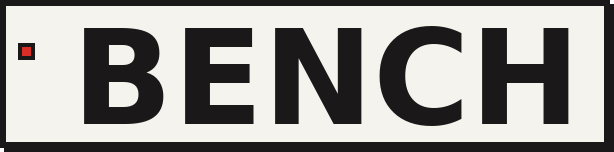
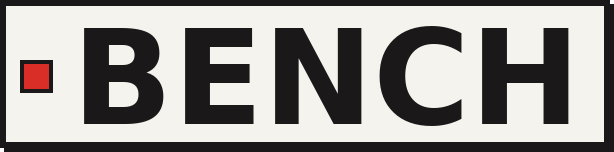
CI: install SDL2 (fxSDK requires it) and widen the install error report
The annotation from the last run named it: fxsdk's CMakeLists failed in
pkg_check_modules. It asks pkg-config for libpng16, libusb-1.0,
ncurses and sdl2 - we installed three of the four, and only udisks2 is
switched off by :noudisks2. SDL2, zlib, flex/bison/texinfo/gperf/isl and
friends come in too, so the binutils and GCC builds have what they ask
for. The annotation now greps the error lines instead of only the tail.

Changed region(s): [[0.0309, 0.2632, 0.0928, 0.6316]]

diff --git a/site/src/components/Hero.jsx b/site/src/components/Hero.jsx
@@ -1,64 +1,78 @@
 import { BruteButton, Chip, Screen } from "../ui.jsx";
 
 const stats = [
-  ["5", "tools, one menu"],
-  ["384\u00d7216", "pixels, no scrolling chrome"],
-  ["0", "dependencies beyond gint"],
+  ["5", "tools in one menu"],
+  ["384\u00d7216", "pixels of screen"],
+  ["0", "extra dependencies"],
 ];
 
 export default function Hero({ version }) {
   return (
     <div id="top" className="relative overflow-hidden border-b-3 border-ink bg-paper">
-      {/* Flat blocks, no gradients: the house style. */}
-      <div aria-hidden="true" className="pointer-events-none absolute inset-0">
-        <div className="absolute -right-16 -top-20 h-56 w-56 rotate-12 border-3 border-ink bg-yellow/70 sm:h-72 sm:w-72" />
-        <div className="absolute bottom-10 left-1/2 hidden h-24 w-24 rotate-45 border-3 border-ink bg-teal/50 lg:block" />
+      {/* Flat blocks, no gradients: the house style. They sit behind everything
+          and only appear once there is room for them, so they never cross the
+          text on a phone. */}
+      <div aria-hidden="true" className="pointer-events-none absolute inset-0 hidden lg:block">
+        <div className="absolute -right-24 -top-28 h-72 w-72 rotate-12 border-3 border-ink bg-yellow/60" />
       </div>
 
-      <div className="relative mx-auto grid w-full max-w-6xl gap-10 px-5 py-12 sm:px-8 sm:py-16 lg:grid-cols-[1.05fr_1fr] lg:items-center lg:gap-14 lg:px-12 lg:py-20">
+      <div className="relative mx-auto grid w-full max-w-6xl gap-10 px-5 py-10 sm:px-8 sm:py-14 lg:grid-cols-[1.05fr_1fr] lg:items-center lg:gap-14 lg:px-12 lg:py-16">
         <div>
           <div className="mb-5 flex flex-wrap items-center gap-2">
-            <Chip className="bg-ink text-paper">Casio fx-CG 50</Chip>
+            <Chip tone="ink">Casio fx-CG 50</Chip>
             <Chip>OS 3.81</Chip>
             <Chip>MIT</Chip>
           </div>
 
-          <h1 className="text-[2rem] font-black leading-[0.95] tracking-tighter sm:text-5xl lg:text-7xl">
-            Five study tools
-            <br />
-            <span className="bg-yellow px-1 [box-decoration-break:clone]">in one</span> add-in.
+          <h1 className="text-balance text-[2rem] font-black leading-[0.95] tracking-tighter sm:text-5xl lg:text-[3.25rem] xl:text-6xl">
+            Five study tools{" "}
+            <span className="whitespace-nowrap bg-yellow px-1 [box-decoration-break:clone]">
+              in one
+            </span>{" "}
+            add-in.
           </h1>
 
-          <p className="mt-6 max-w-xl text-lg leading-relaxed text-ink/80">
+          <p className="mt-5 max-w-xl text-base leading-relaxed text-ink/80 sm:mt-6 sm:text-lg">
             Pacer times a practice paper. Uncertainty does the error arithmetic.
             Cards drills flashcards on a Leitner schedule. Notes reads Markdown.
-            Number theory goes from gcd to CRT. One <code className="font-mono text-base">.g3a</code>,
-            one menu, nothing else to install.
+            Number theory goes from gcd to CRT. One{" "}
+            <code className="font-mono text-[0.9em]">.g3a</code>, one menu,
+            nothing else to install.
           </p>
 
-          <div className="mt-8 flex flex-wrap items-center gap-3">
-            <BruteButton href="#install">
+          <div className="mt-7 flex flex-col gap-3 sm:flex-row sm:items-center">
+            <BruteButton href="#install" extra="w-full sm:w-auto">
               Get Bench {version}
             </BruteButton>
-            <BruteButton href="#tour" tone="paper">
+            <BruteButton href="#tour" tone="paper" extra="w-full sm:w-auto">
               See every screen &rarr;
             </BruteButton>
           </div>
 
-          <dl className="mt-10 grid max-w-lg grid-cols-3 gap-3 border-t-3 border-ink pt-5">
+          <dl className="mt-8 grid max-w-lg gap-x-6 gap-y-3 border-t-3 border-ink pt-5 sm:grid-cols-3">
             {stats.map(([value, label]) => (
-              <div key={label}>
-                <dt className="font-mono text-xs uppercase tracking-widest text-ink/60">{label}</dt>
-                <dd className="mt-1 text-lg font-black sm:text-2xl lg:text-3xl">{value}</dd>
+              <div key={label} className="flex items-baseline gap-3 sm:block">
+                <dt className="order-2 font-mono text-[11px] uppercase tracking-widest text-ink/60 sm:order-none sm:mt-1 sm:text-xs">
+                  {label}
+                </dt>
+                <dd className="order-1 text-xl font-black sm:text-2xl lg:text-3xl">
+                  {value}
+                </dd>
               </div>
             ))}
           </dl>
         </div>
 
         <div className="relative">
-          <div className="absolute -inset-2 -z-10 translate-x-2 translate-y-2 border-3 border-ink bg-red" aria-hidden="true" />
-          <Screen file="01_menu.png" alt="The Bench home screen: six tiles for Pacer, Uncertainty, Cards, Notes, Number theory and Settings." />
-          <p className="mt-3 font-mono text-xs uppercase tracking-widest text-ink/60">
+          <div
+            className="absolute -inset-2 -z-10 translate-x-2 translate-y-2 border-3 border-ink bg-red"
+            aria-hidden="true"
+          />
+          <Screen
+            file="01_menu.png"
+            alt="The Bench home screen: six tiles for Pacer, Uncertainty, Cards, Notes, Number theory and Settings."
+          />
+          <p className="mt-3 font-mono text-[11px] uppercase tracking-widest text-ink/60">
             The home screen &mdash; a real frame, drawn by the add-in
           </p>
         </div>

diff --git a/site/src/ui.jsx b/site/src/ui.jsx
@@ -19,10 +19,15 @@ export function Section({ id, children, className = "" }) {
   );
 }
 
-export function Eyebrow({ children, accent = "red" }) {
+export function Eyebrow({ children, accent = "red", tone = "dark" }) {
   return (
-    <p className="mb-3 flex items-center gap-2 font-mono text-xs uppercase tracking-[0.18em]">
-      <span className={`inline-block h-3 w-3 border border-ink ${accents[accent].dot}`} />
+    <p
+      className={
+        "mb-3 flex items-center gap-2 font-mono text-xs uppercase tracking-[0.18em] " +
+        (tone === "light" ? "text-paper/70" : "text-ink/70")
+      }
+    >
+      <span className={`inline-block h-3 w-3 border border-current ${accents[accent].dot}`} />
       {children}
     </p>
   );
@@ -66,10 +71,24 @@ export function Screen({ file, alt, className = "" }) {
   );
 }
 
-export function Chip({ children, className = "" }) {
+// tone instead of a className merge: Tailwind cannot resolve two competing
+// background utilities on one element, and the first chip came out invisible
+// (dark text on a paper background that won the cascade).
+const chipTones = {
+  paper: "bg-paper text-ink",
+  ink: "bg-ink text-paper",
+  yellow: "bg-yellow text-ink",
+};
+
+export function Chip({ children, tone = "paper", className = "" }) {
   return (
     <span
-      className={`inline-block border-3 border-ink bg-paper px-3 py-1 font-mono text-xs uppercase tracking-widest ${className}`}
+      className={
+        "inline-block border-3 border-ink px-3 py-1 font-mono text-xs uppercase tracking-widest " +
+        (chipTones[tone] || chipTones.paper) +
+        " " +
+        className
+      }
     >
       {children}
     </span>

diff --git a/site/src/components/Tour.jsx b/site/src/components/Tour.jsx
@@ -91,7 +91,7 @@ export default function Tour() {
         aria-labelledby={`tab-${tool.id}`}
         className="mt-6 grid gap-6 lg:grid-cols-[1.35fr_1fr] lg:items-start"
       >
-        <figure className="order-2 lg:order-1">
+        <figure className="order-1">
           <div className="relative">
             <div className={`absolute -inset-2 -z-10 translate-x-2 translate-y-2 border-3 border-ink ${accent.dot}`} aria-hidden="true" />
             <Screen file={file} alt={caption} />
@@ -102,7 +102,7 @@ export default function Tour() {
           </figcaption>
         </figure>
 
-        <div className="order-1 lg:order-2">
+        <div className="order-2">
           <h3 className="text-2xl font-black sm:text-3xl">{tool.name}</h3>
           <p className="mt-2 font-mono text-xs uppercase tracking-widest text-ink/60">{tool.tag}</p>
           <p className="mt-4 text-base leading-relaxed text-ink/80">{tool.summary}</p>

diff --git a/site/src/components/Install.jsx b/site/src/components/Install.jsx
@@ -27,7 +27,7 @@ const tree = [
 export default function Install() {
   return (
     <Section id="install" className="border-t-3 border-ink bg-ink py-14 text-paper sm:py-20">
-      <Eyebrow accent="yellow">Install</Eyebrow>
+      <Eyebrow accent="yellow" tone="light">Install</Eyebrow>
       <div className="grid gap-10 lg:grid-cols-[1.05fr_1fr] lg:gap-14">
         <div>
           <Heading className="text-paper">Three steps, no companion app.</Heading>

diff --git a/tools/brand/make_brand.py b/tools/brand/make_brand.py
@@ -153,9 +153,12 @@ def wordmark() -> "Image.Image":
     d.rectangle([0, 0, w - 5, h - 5], fill=PAPER)
     d.rectangle([0, 0, w - 5, h - 5], outline=INK, width=6)
 
-    # Red square: the one accent, aligned to the cap height.
-    d.rectangle([pad - 8, top + pad - 8, pad + 8, top + pad + 8], fill=RED)
-    d.rectangle([pad - 8, top + pad - 8, pad + 8, top + pad + 8], outline=INK,
+    # Red square: the one accent, centred on the middle of the cap height so
+    # it reads as a mark next to the word and not as a raised apostrophe.
+    mid = pad + th // 2
+    half = 16
+    d.rectangle([pad - 6, mid - half, pad - 6 + 2 * half, mid + half], fill=RED)
+    d.rectangle([pad - 6, mid - half, pad - 6 + 2 * half, mid + half], outline=INK,
                 width=4)
 
     d.text((pad + 46 - left, pad - top), text, font=font, fill=INK)
@@ -170,7 +173,7 @@ role="img" aria-label="Bench">
   <rect x="6" y="6" width="606" height="176" fill="#1a1818"/>
   <rect x="0" y="0" width="606" height="176" fill="#f4f3ee" stroke="#1a1818" \
 stroke-width="6"/>
-  <rect x="26" y="52" width="34" height="34" fill="#d92d27" stroke="#1a1818" \
+  <rect x="24" y="58" width="36" height="36" fill="#d92d27" stroke="#1a1818" \
 stroke-width="4"/>
   <text x="78" y="132" fill="#1a1818"
         font-family="'DejaVu Sans', 'Helvetica Neue', Arial, sans-serif"
